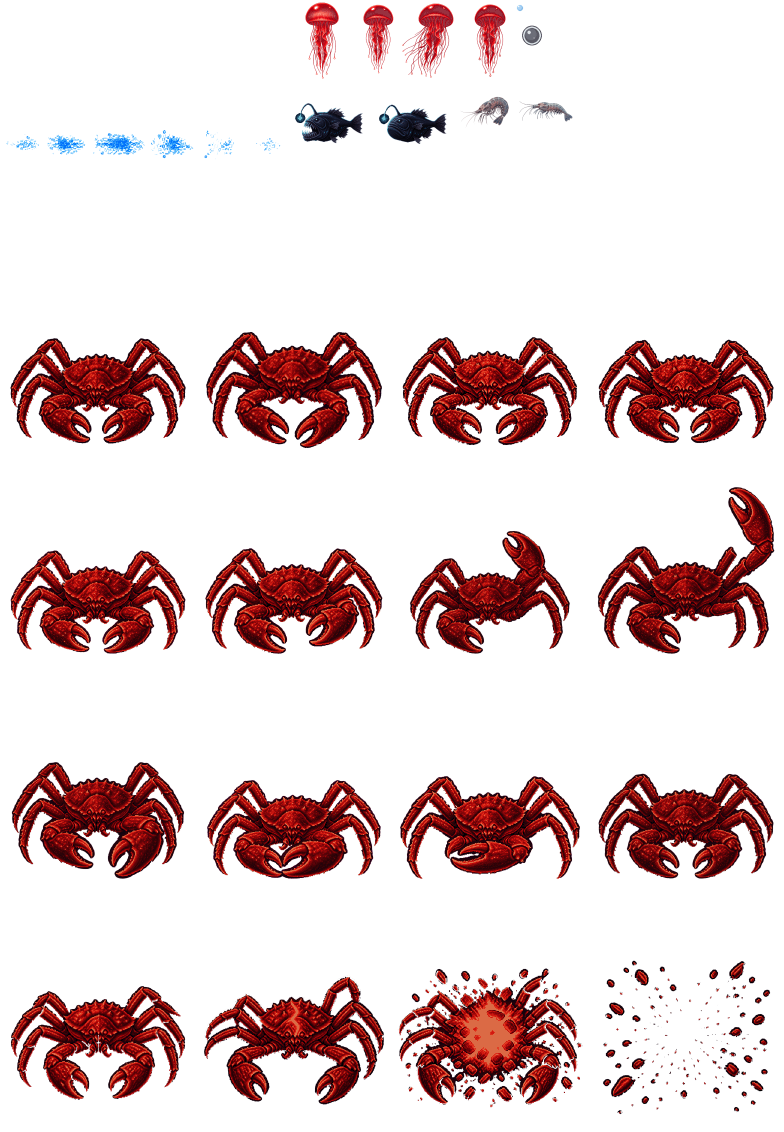
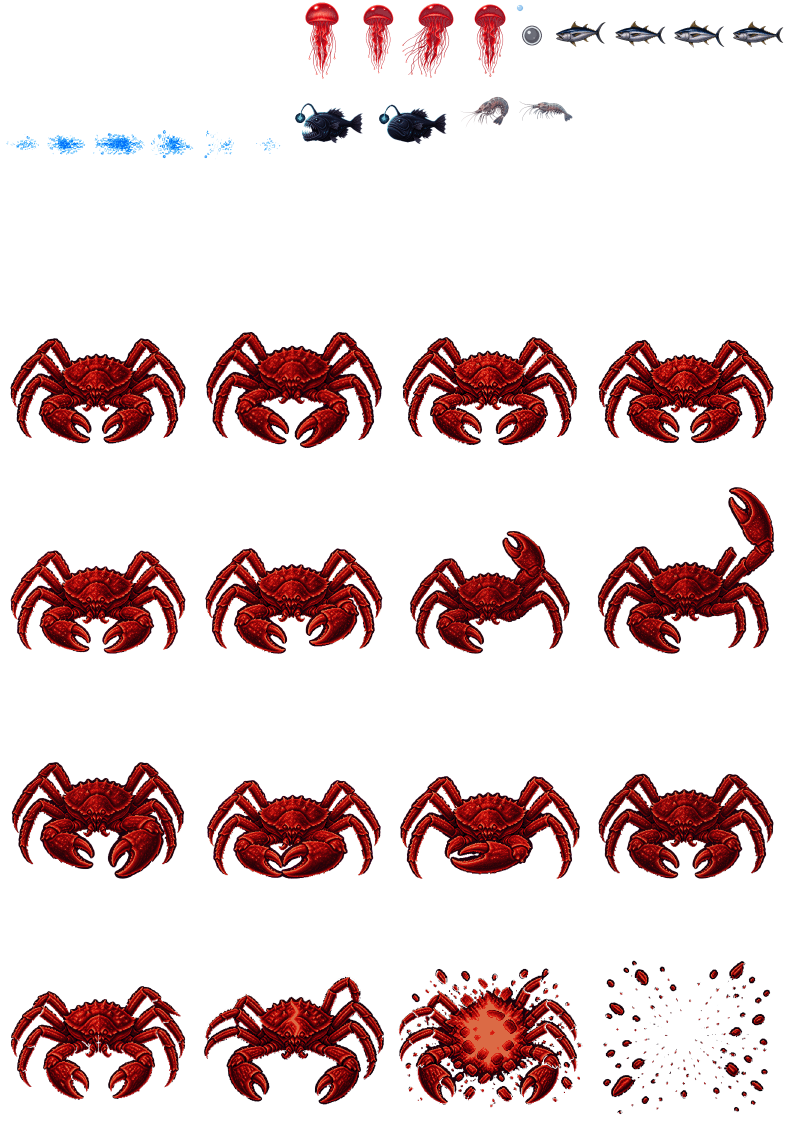
A tuna swims: four frames, pixelated to the density the rest of the art is at
Generated from the owner's tuna as the reference on every frame (same reference, same subject wording, only the phase differs): tail swept up, level, swept down, level again -- so four frames loop. The first attempt at frame 4 came back with the tail hooked forward across the flank, which is not a swim stroke, so that one frame was regenerated with the tail held straight and clear of the body.

Pixelated with the pipeline's sheet step at grid 52, which is the game's density (1.4 screen px per texel) for a fish drawn about 77px wide, and aligned with --anchor center --anchor-x left --margin 2. The anchors were measured rather than guessed: the nose IS the content's left edge (9px of variation across the four renders) and the head's centre moves only 2px relative to the content's centre, so left+centre pins both -- the pipeline's own anchor check agrees ('pinned'). The margin is 2 rather than the default because this is a NEW asset with no existing framing to preserve, and 8px of margin on a 52-wide grid is 16px of padding around 51px of fish: the tuna would have been 20% smaller inside its own frame. Canvas 55x32, four frames = 8.2 KB of files and 27.5 KB decoded; the atlas went 27 frames / 219 KB / 3.39 MB -> 31 / 223 KB / 3.40 MB.
[…]

diff --git a/README.md b/README.md
@@ -785,6 +785,35 @@ pnpm atlas                                   # 重新打包
 `TARGET_TEXEL_PX = 1.4` 在第一个脚本里；改成 1.0 就是整体更细一档（那时 BOSS 也要跟着回到 256 才一致）。
 像素化前的原图都在 `generated-images/before-pixel-pass/`（未入库），BOSS 的 512 版在 `generated-images/boss-512-before-pixelation/`。
 
+### 金枪鱼（`金枪鱼-游动-1..4`）：4 帧游动，**已入库但还没接给任何生物**
+
+用你新做的那张金枪鱼做参考图，逐帧生成 4 帧游动（同一张参考图、同一套主体描述，只有相位不同）：
+**摆尾向上 → 摆平 → 摆尾向下 → 摆平**（第 4 帧是回程，所以 4 帧能循环）。第 4 帧第一次生成时尾巴钩到了身体前侧（不是游动姿势），
+重做了一帧。
+
+| | |
+|---|---|
+| 画布 | **55×32**（网格 52，按游戏密度 1.4 屏幕像素/像素块 ≈ 画出来 77px 宽） |
+| 文件 | 4 帧共 8.2 KB；解码 **27.5 KB** |
+| 图集 | 27 帧 / 219 KB / 3.39 MB → **31 帧 / 223 KB / 3.40 MB** |
+
+**对齐**：`sheet --layout uniform --anchor center --anchor-x left --margin 2`。选这两个锚点是量出来的——
+鱼的**鼻子**就是内容框的左边缘（4 帧里 x 只差 9px），而**头部中心相对内容中心只差 2px**（整条鱼是一起移动的），
+所以"左对齐 + 垂直居中"把鼻子和头都钉住了；管线自己的锚点检查也报 **pinned**（顶边 1px、中心 1px）。
+`--margin` 给 2 而不是默认的 4/8：这是**新资产、没有旧比例要保**，8px 的留白在 52 的网格上等于给 51px 的内容套 16px 边，
+鱼在自己框里会小 20%。
+
+**⚠ 它现在不在游戏里出现**：文件在图集里，但没有任何 `hazardArt` 行指向它——因为**该用哪个网格取决于它被画多大**，
+而那是生物的属性（`radius × art.scale`），金枪鱼还没有生物。告诉我是哪一种，一条命令就能重来（`sheet --grid N` + `pnpm atlas`）：
+
+| 如果它是 | 画出来 | 合适的网格 |
+|---|---|---|
+| 现在这样（按本项目的密度，≈77px） | 77px | **52**（已导入的就是这个） |
+| 普通 `fish` 那一种的贴图（`radius 0.035`，不加 scale） | 29px | ~20（那就是一条 20 像素的小鱼） |
+| 普通 `fish` 的贴图 + `hazardArt.fish.scale = 2.5` | 72px | 52 ✓ 正好是现在这个 |
+| 新的一种中型猎手（`radiusFraction 0.09` × `scale 1.4`） | 104px | ~74 |
+| 新的一种大型猎手（`radiusFraction 0.11` × `scale 2.8`，和 BOSS 同档） | 254px | 180 |
+
 ### 敌人贴图（`hazardArt`）+ 灯笼鱼的发光触角
 
 按种类给图，**没给图的种类照旧用代码画**——一次换一种，不用一次全换：
